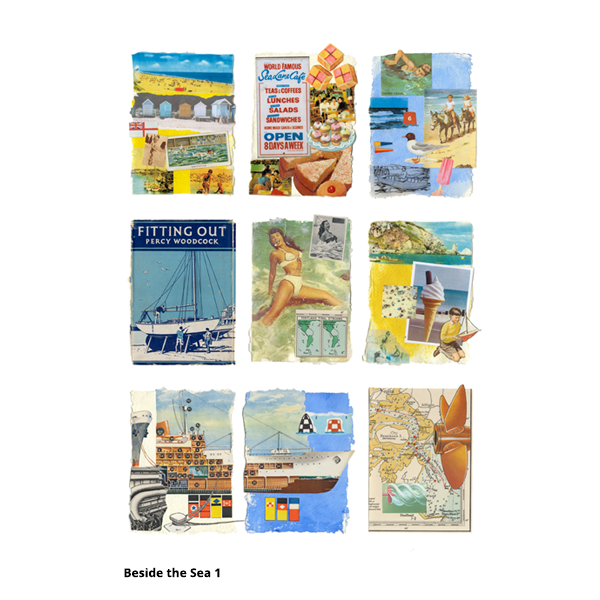
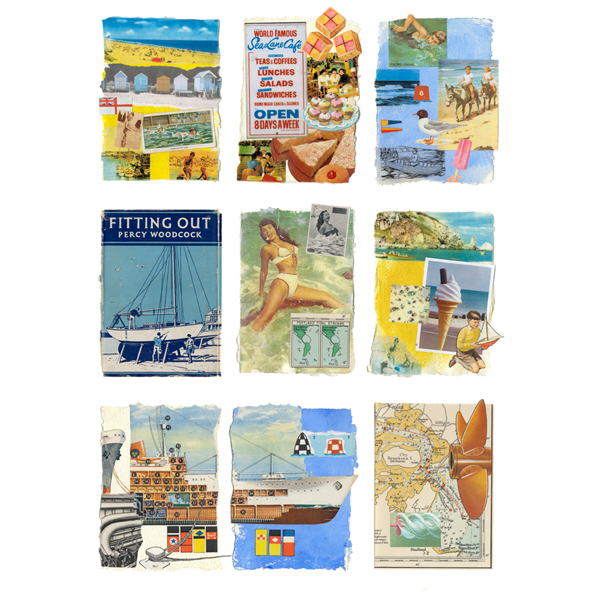
side scroll boilerplate
working on side scroll

diff --git a/app/btsView.html b/app/btsView.html
@@ -1,15 +1,18 @@
-<div class="besideTheSeaContainer">
-    <div class="besideTheSeaTitle">
-        <h3>{{btsTitle}}</h3>
+<div class="row besideTheSeaContainer">
+    <div class="col-xs-12 col-sm-12 col-md-4 col-lg-4">
+        <div class="besideTheSeaTitle">
+            <h3>{{btsTitle}}</h3>
+        </div>
+        <div class="besideTheSeaText">
+            <p>{{btsText.p1}}</p>
+            <p>{{btsText.p2}}</p>
+        </div>
     </div>
-    <div class="besideTheSeaText">
-        <p>{{btsText.p1}}</p>
-        <p>{{btsText.p2}}</p>
-    </div>
-    <div class="besideTheSeaImages">
-        <div class="besideTheSeaImageDiv" ng-repeat="x in btsImages track by $index">
-            <img class="besideTheSeaSingleImage" ng-src="{{x.imageSrc}}" alt="{{x.altText}}">
+    <div class="col-xs-12 col-sm-12 col-md-8 col-lg-8">
+        <div class="besideTheSeaImages">
+            <div class="besideTheSeaImageDiv" ng-repeat="x in btsImages track by $index">
+                <img class="besideTheSeaSingleImage" ng-src="{{x.imageSrc}}" alt="{{x.altText}}">
+            </div>
         </div>
     </div>
 </div>
-

diff --git a/assets/css/site.css b/assets/css/site.css
@@ -103,3 +103,18 @@ a:hover, a:visited, a:link, a:active {
 .besideTheSeaText {
     width: 520px;
 }
+.besideTheSeaImages{
+    margin-top: -180px!important;
+    margin-left: 20px;
+    width: 230%;
+    overflow: auto;
+    height: inherit;
+    display: block;
+    background-color: default;
+    position: absolute;
+}
+.besideTheSeaSingleImage{
+    float: left;
+    height: 85%;
+    margin: 0 -50px 0 -50px;
+}
